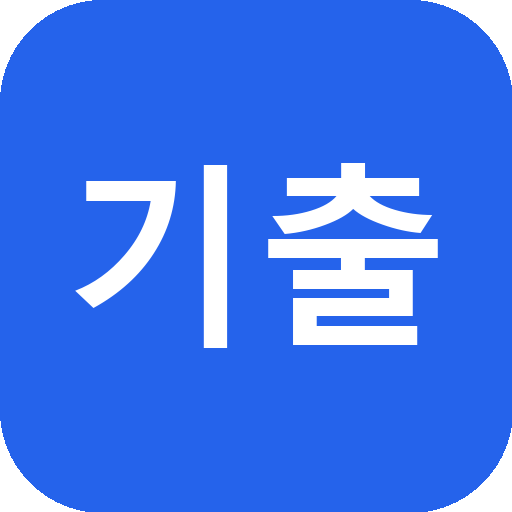
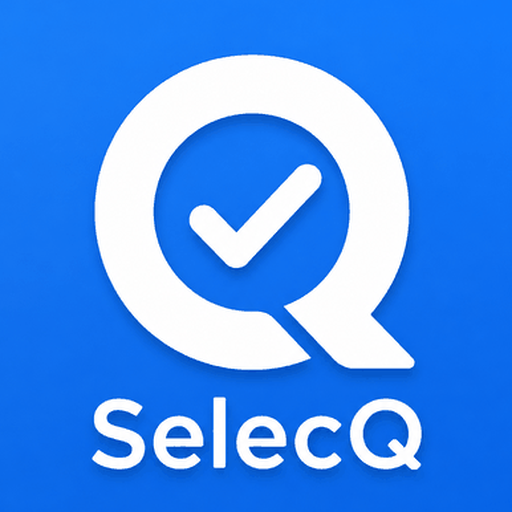
아이콘: 임시 "기출" 아이콘을 SelecQ 로고로 교체
휴대폰에 설치했을 때 홈 화면 아이콘이 "기출"이라고 쓰인 임시 아이콘으로 떴다.
photo/셀렉Q.png 가 실제 로고이므로 이걸로 앱 아이콘을 새로 만들었다.

원본을 그대로 쓸 수 없는 이유: 로고 둘레에 흰 여백(상하 23px, 좌우 27px)이 있어
iOS·안드로이드가 자체 둥근 마스크를 씌우면 흰 테두리가 남고 모서리가 이중으로
깎여 보인다.

처음엔 바깥 흰 영역만 그라데이션으로 메웠으나, 로고 자체 음영과 정확히 맞지 않아
둥근 사각형 자리에 희미한 이음매가 남았다. 그래서 색을 지어내지 않고 둥근
사각형 "안쪽"을 잘라내는 방식으로 바꿨다 — 네 모서리가 모두 파랑이 되는 최소
inset 이 34px 이라 36px 로 잘라 386x386 정사각형을 얻었다. 이음매가 원천적으로 없다.

- icon-192 / icon-512 (purpose: any): 가장자리까지 파랑이 꽉 참. OS 마스크와 맞물린다
- icon-maskable-512 (purpose: maskable): 안드로이드 적응형 아이콘은 중앙 80% 밖을
  잘라내므로 로고를 78%로 축소해 안전영역에 넣었다. 그대로 두면 아래쪽 "SelecQ"
  글자가 잘린다. 배경은 잘라낸 이미지 자신의 위·아래 가장자리 색을 바깥으로 선형
  연장해 이음매가 보이지 않게 했다
- manifest: purpose 명시, maskable 추가, id 명시(기존 start_url 과 동일해 앱 신원 불변)
- 아이콘 참조에 ?v=2 — iOS 는 apple-touch-icon 을 강하게 캐시해 파일만 바꾸면 반영되지 않는다
- sw.js VERSION 20260820a → b. 셸 캐시가 아이콘을 프리캐시하므로 버전을 올려야
  이미 설치한 사용자에게 새 아이콘이 나간다

og-image.png 는 이미 SelecQ 브랜딩이라 그대로 둔다.
서비스워커 로직 테스트 12개 항목 재실행, 전부 통과.

styles.css 버전 갱신(20260814l → 20260820a)이 함께 들어간다 — 병렬 작업분.

diff --git a/webapp/index.html b/webapp/index.html
@@ -27,19 +27,20 @@
 <meta name="twitter:image" content="https://selecq.com/og-image.png">
 
 <link rel="manifest" href="manifest.json">
-<link rel="icon" type="image/png" href="icon-192.png">
+<link rel="icon" type="image/png" href="icon-192.png?v=2">
 <meta name="theme-color" content="#2563eb">
 <meta name="apple-mobile-web-app-capable" content="yes">
 <meta name="mobile-web-app-capable" content="yes">
 <meta name="apple-mobile-web-app-status-bar-style" content="default">
 <meta name="apple-mobile-web-app-title" content="SelecQ">
-<link rel="apple-touch-icon" href="icon-192.png">
+<!-- iOS는 홈 화면 아이콘을 강하게 캐시한다 — 아이콘 교체 시 ?v= 를 올려야 반영된다 -->
+<link rel="apple-touch-icon" href="icon-192.png?v=2">
 <link rel="stylesheet" href="https://cdn.jsdelivr.net/gh/orioncactus/pretendard@v1.3.9/dist/web/variable/pretendardvariable-dynamic-subset.min.css">
 <!-- KaTeX: 해설 수식 렌더링 (분수·적분·집합기호 등을 진짜 기호로) -->
 <link rel="stylesheet" href="https://cdn.jsdelivr.net/npm/katex@0.16.9/dist/katex.min.css">
 <script defer src="https://cdn.jsdelivr.net/npm/katex@0.16.9/dist/katex.min.js"></script>
 <script defer src="https://cdn.jsdelivr.net/npm/katex@0.16.9/dist/contrib/auto-render.min.js"></script>
-<link rel="stylesheet" href="styles.css?v=20260814l">
+<link rel="stylesheet" href="styles.css?v=20260820a">
 
 <!-- 구조화 데이터: 브랜드명 SelecQ와 한글 동의어 '셀렉큐'를 검색엔진에 명시 -->
 <script type="application/ld+json">

diff --git a/webapp/sw.js b/webapp/sw.js
@@ -23,7 +23,7 @@
  * index.html 을 배포하면 사용자를 되돌릴 수 있다. sw.js 자체도 max-age=0 으로 나간다.
  */
 
-const VERSION = "20260820a";
+const VERSION = "20260820b";   // 아이콘 교체 — 기존 설치 사용자의 셸 캐시를 갈아엎어야 새 아이콘이 반영됨
 const SHELL = "selecq-shell-" + VERSION;     // 오프라인 진입점(index.html)
 const STATIC = "selecq-static-" + VERSION;   // ?v= 버전 고정 자산 + CDN
 const IMAGES = "selecq-img-" + VERSION;      // 문제·해설 이미지
